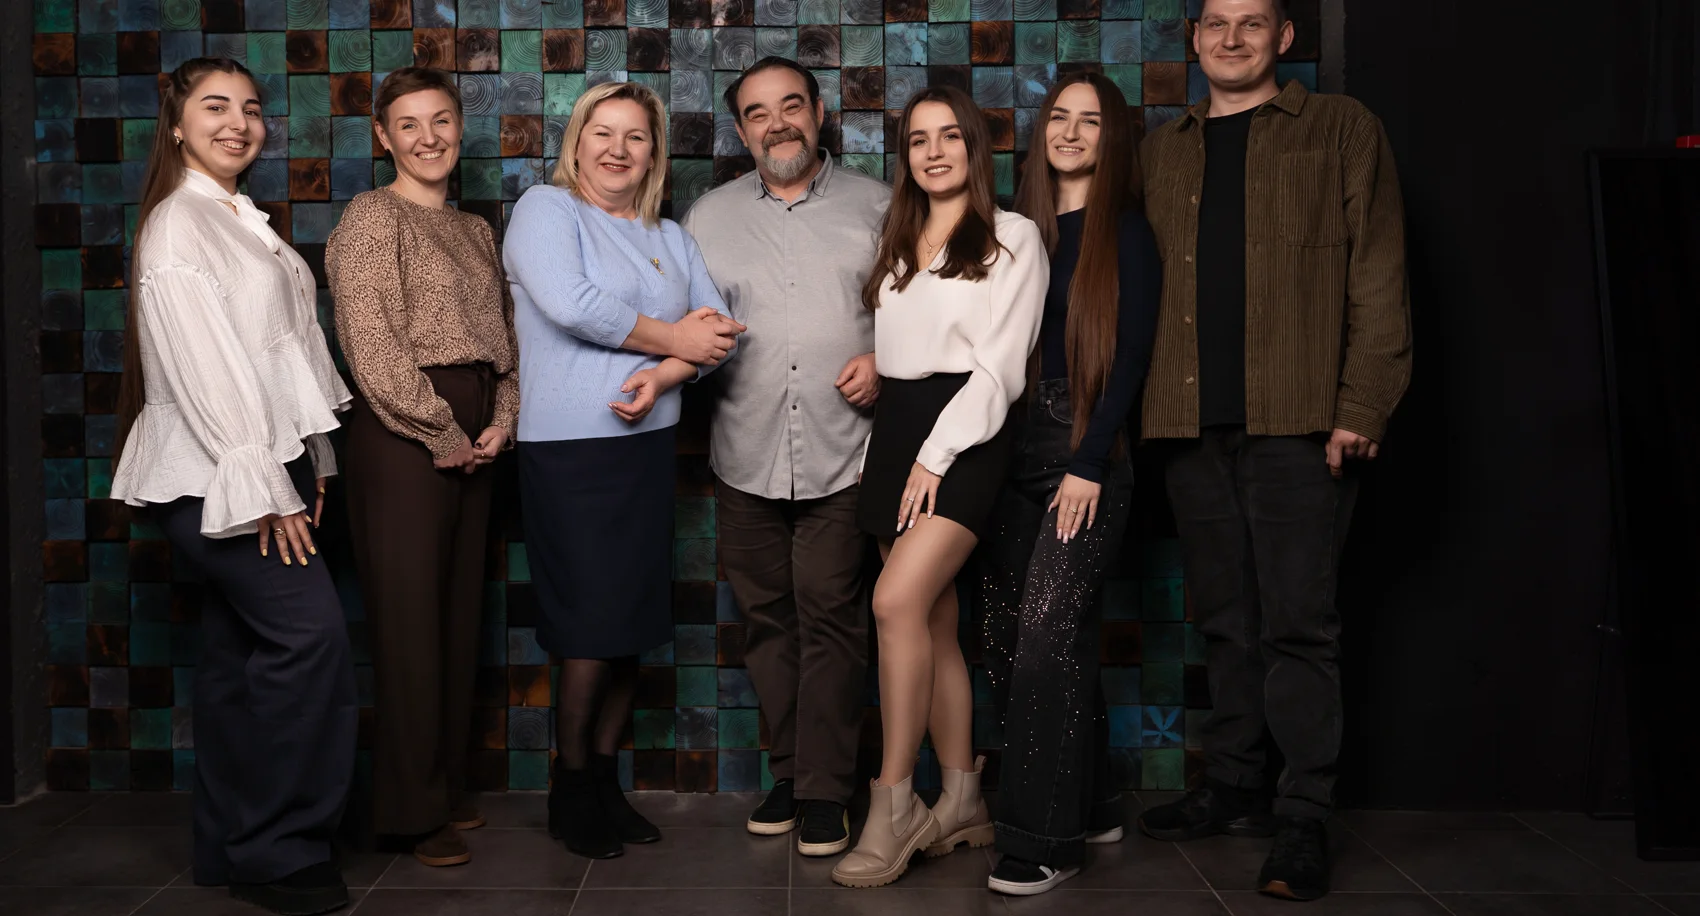
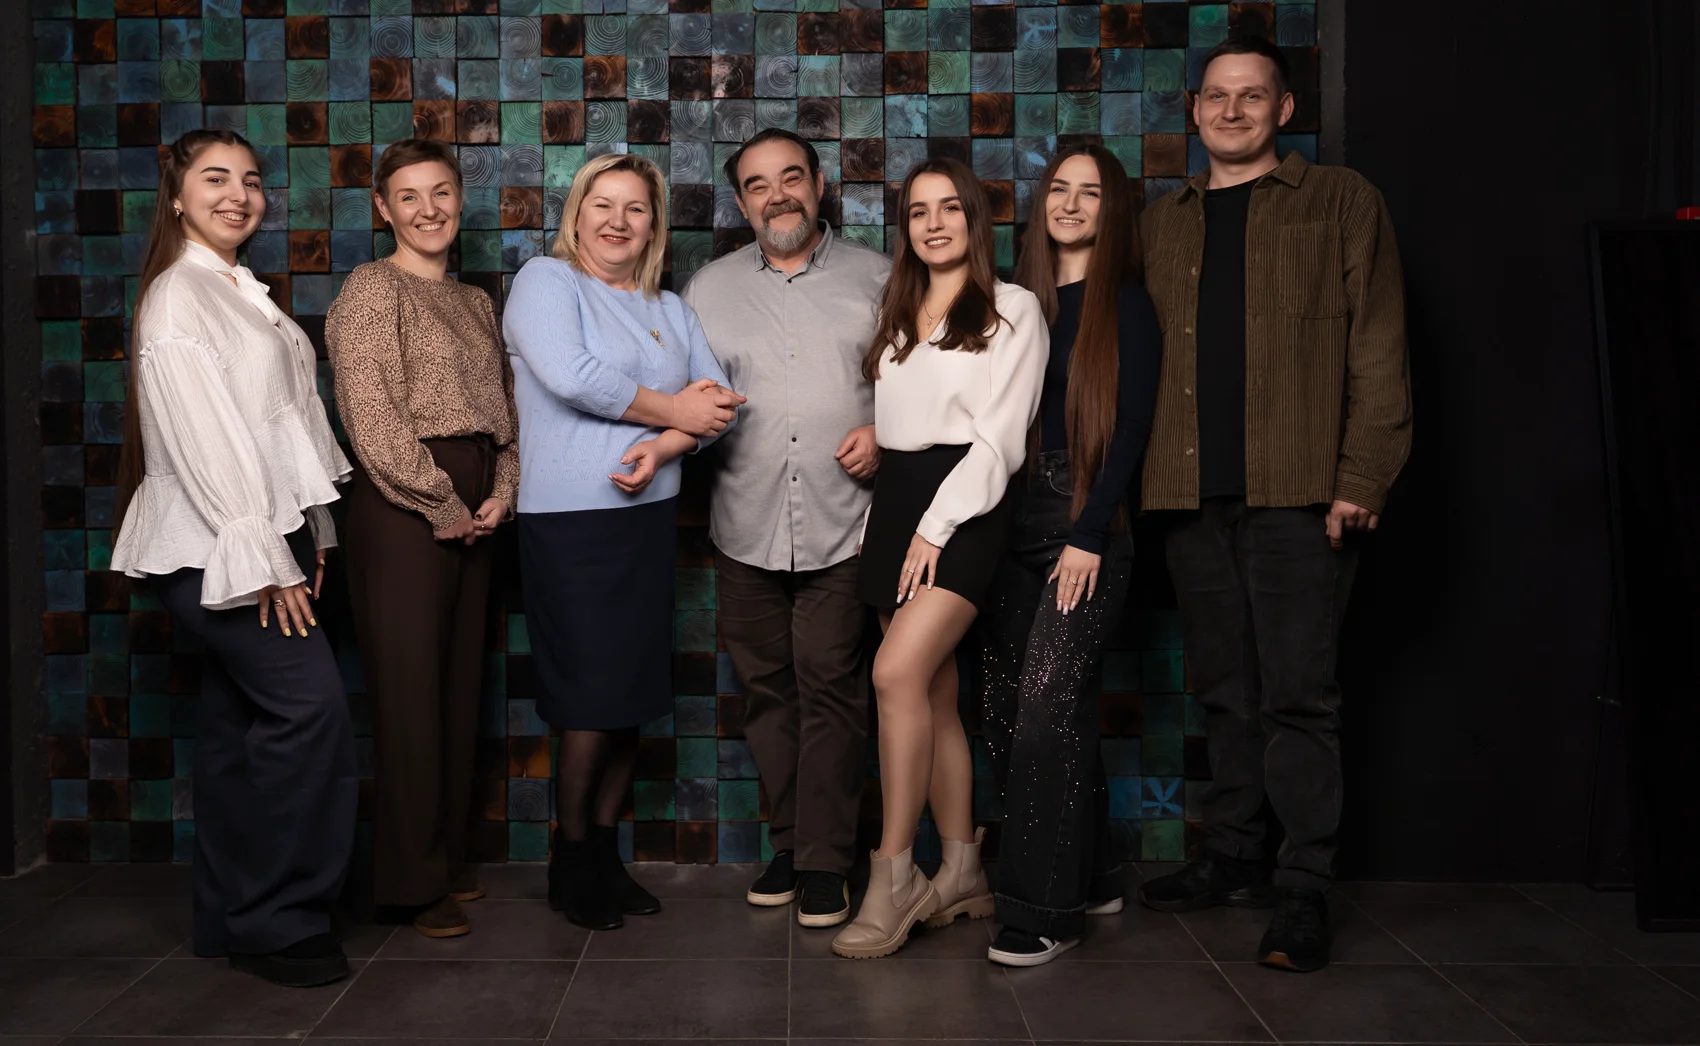
Adjust mobile photo positioning

diff --git a/assets/persona-custom/dovhaliuk-yaroslava/teacher-proof.css b/assets/persona-custom/dovhaliuk-yaroslava/teacher-proof.css
@@ -773,8 +773,8 @@
 
 .other-subjects-photo img {
   width: 100%;
-  aspect-ratio: 16 / 9.7;
-  max-height: 520px;
+  aspect-ratio: 16 / 10.7;
+  max-height: 620px;
   object-fit: cover;
   object-position: center 38%;
   display: block;
@@ -1643,7 +1643,7 @@
   .other-subjects-photo img {
     height: auto;
     max-height: none;
-    aspect-ratio: 16 / 10;
+    aspect-ratio: 16 / 10.9;
     object-fit: cover;
     object-position: center 38%;
   }
@@ -2388,11 +2388,12 @@
   }
 
   #trial-lesson .trial-cta-person {
-    justify-self: end;
+    justify-self: start;
     width: 172px;
     height: 150px;
     max-height: 160px;
     margin-top: -2px;
+    margin-left: 0;
     border-radius: 18px;
     object-fit: cover;
     object-position: center bottom;
